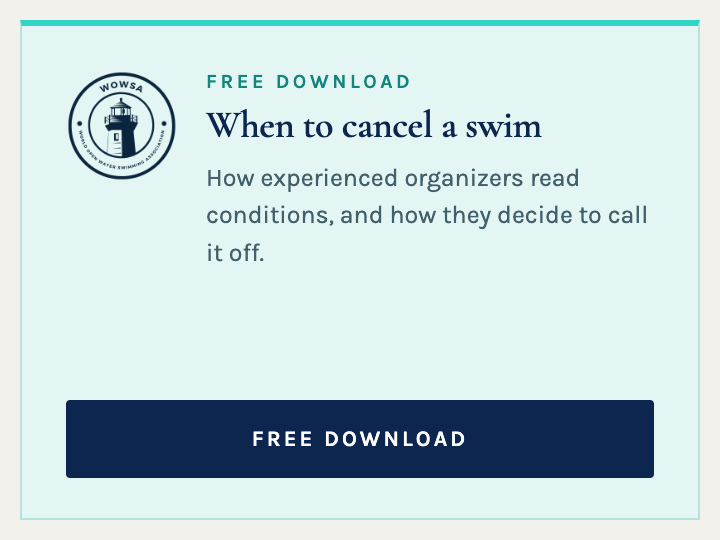
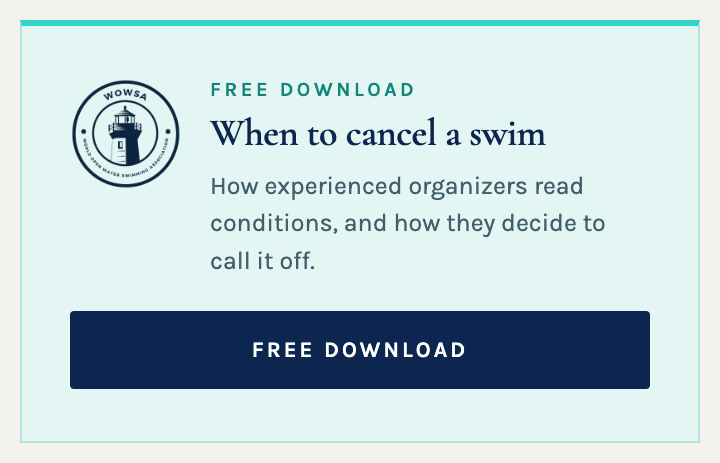
Fix oversized mid-card gaps in B, C, E; merge Slot E kicker to one line
B, C, and E all forced a fixed card height (space-between or an auto
margin pushing the button down), which left a large dead gap once the
340px width let the copy wrap to fewer lines. Replaced with natural
content flow and a fixed margin above the button. Slot E's two-line
"WOWSA Learn" / "Free course" kicker merged into one line with a dot
separator, and padding increased across all three for breathing room.

diff --git a/slot-e-sidebar-square-alt.html b/slot-e-sidebar-square-alt.html
@@ -8,26 +8,25 @@
 <style>
 .wowsa-promo-e{font-family:"Karla",-apple-system,BlinkMacSystemFont,"Segoe UI",Roboto,Helvetica,Arial,sans-serif;box-sizing:border-box}
 .wowsa-promo-e *{box-sizing:border-box}
-.wowsa-promo-e .ad{display:flex;flex-direction:column;justify-content:space-between;
-  min-height:250px;padding:20px;background:#0C2650;color:#FAF7F2;text-decoration:none;
+.wowsa-promo-e .ad{display:flex;flex-direction:column;
+  padding:28px;background:#0C2650;color:#FAF7F2;text-decoration:none;
   width:340px;max-width:100%}
-.wowsa-promo-e .kick{font-size:10px;letter-spacing:.18em;text-transform:uppercase;font-weight:600;color:#B5925C}
-.wowsa-promo-e .goldrule{height:1px;background:#B5925C;opacity:.55;margin:8px 0 12px;width:46px}
-.wowsa-promo-e .urg{display:inline-block;font-size:10px;font-weight:600;letter-spacing:.18em;
-  text-transform:uppercase;color:#B5925C;padding:0;border-bottom:1px solid #B5925C;padding-bottom:4px}
+.wowsa-promo-e .kickline{display:flex;align-items:center;gap:8px;font-size:10px;font-weight:600;
+  letter-spacing:.16em;text-transform:uppercase;color:#B5925C}
+.wowsa-promo-e .kickline .dot{opacity:.5}
+.wowsa-promo-e .goldrule{height:1px;background:#B5925C;opacity:.55;margin:12px 0 16px;width:46px}
 .wowsa-promo-e .h{font-family:"Cormorant Garamond",Georgia,"Times New Roman",serif;font-weight:600;
-  letter-spacing:-.01em;line-height:1.1;font-size:27px;margin:10px 0 8px;color:#FAF7F2}
-.wowsa-promo-e .s{font-size:12.5px;line-height:1.45;color:#c3ccdb}
+  letter-spacing:-.01em;line-height:1.15;font-size:27px;margin:0 0 12px;color:#FAF7F2}
+.wowsa-promo-e .s{font-size:12.5px;line-height:1.55;color:#c3ccdb}
 .wowsa-promo-e .btn{display:block;text-align:center;background:#FAF7F2;color:#0C2650;font-size:11px;
   font-weight:600;letter-spacing:.14em;text-transform:uppercase;padding:13px 22px;text-decoration:none;
-  border-radius:2px}
+  border-radius:2px;margin-top:22px}
 </style>
 <div class="wowsa-promo-e">
   <a class="ad" href="https://www.openwaterswimming.com/learn/courses/marathon-swimming" target="_blank" rel="noopener noreferrer">
     <div>
-      <div class="kick">WOWSA Learn</div>
+      <div class="kickline">WOWSA Learn <span class="dot">&middot;</span> Free course</div>
       <div class="goldrule"></div>
-      <span class="urg">Free course</span>
       <div class="h">Plan your first marathon swim</div>
       <div class="s">Eight modules on the shared language of the sport, from defining a swim to ratification.</div>
     </div>

diff --git a/slot-b-sidebar-banner.html b/slot-b-sidebar-banner.html
@@ -8,8 +8,8 @@
 <style>
 .wowsa-promo-b{font-family:"Karla",-apple-system,BlinkMacSystemFont,"Segoe UI",Roboto,Helvetica,Arial,sans-serif;box-sizing:border-box}
 .wowsa-promo-b *{box-sizing:border-box}
-.wowsa-promo-b .ad{display:flex;flex-direction:column;min-height:540px;height:auto;
-  padding:clamp(20px,4%,26px) clamp(18px,6%,24px);background:#0C2650;color:#FAF7F2;
+.wowsa-promo-b .ad{display:flex;flex-direction:column;
+  padding:clamp(26px,5%,32px) clamp(22px,6%,26px);background:#0C2650;color:#FAF7F2;
   text-decoration:none;width:300px;max-width:100%}
 .wowsa-promo-b .sealbox{display:flex;justify-content:center;padding:2px 0 6px}
 .wowsa-promo-b .mark{display:block;flex:none;width:clamp(104px,46%,150px);aspect-ratio:1;
@@ -26,13 +26,12 @@
 .wowsa-promo-b .goldrule{height:1px;background:#B5925C;opacity:.55;margin:18px 0 14px}
 .wowsa-promo-b .tick{display:flex;align-items:center;gap:8px;font-size:12px;font-weight:700;
   letter-spacing:.08em;text-transform:uppercase;color:#FAF7F2;margin-bottom:10px}
-.wowsa-promo-b .tick:last-of-type{margin-bottom:auto}
 .wowsa-promo-b .tick i{width:15px;height:15px;border-radius:50%;border:1.5px solid #B5925C;flex:none;position:relative}
 .wowsa-promo-b .tick i:after{content:"";position:absolute;left:4px;top:6px;width:5px;height:2.5px;
   border-left:1.5px solid #B5925C;border-bottom:1.5px solid #B5925C;transform:rotate(-45deg)}
 .wowsa-promo-b .btn{display:block;text-align:center;background:#B5925C;color:#fff;font-size:11px;
   font-weight:600;letter-spacing:.14em;text-transform:uppercase;padding:13px 22px;text-decoration:none;
-  border-radius:2px;margin-top:18px}
+  border-radius:2px;margin-top:26px}
 </style>
 <div class="wowsa-promo-b">
   <a class="ad" href="https://www.openwaterswimming.com/learn/reading-risk" target="_blank" rel="noopener noreferrer">

diff --git a/slot-c-sidebar-square.html b/slot-c-sidebar-square.html
@@ -6,8 +6,8 @@
 <style>
 .wowsa-promo-c{font-family:"Karla",-apple-system,BlinkMacSystemFont,"Segoe UI",Roboto,Helvetica,Arial,sans-serif;box-sizing:border-box}
 .wowsa-promo-c *{box-sizing:border-box}
-.wowsa-promo-c .ad{display:flex;flex-direction:column;justify-content:space-between;gap:18px;
-  min-height:250px;padding:22px 22px 20px;background:#E4F6F3;border:1px solid #B4E2DC;
+.wowsa-promo-c .ad{display:flex;flex-direction:column;gap:16px;
+  padding:26px 24px;background:#E4F6F3;border:1px solid #B4E2DC;
   border-top:3px solid #30D5C8;color:#0C2650;text-decoration:none;width:340px;max-width:100%}
 .wowsa-promo-c .row{display:flex;gap:14px;align-items:flex-start}
 .wowsa-promo-c .mark{display:block;flex:none;width:56px;aspect-ratio:1;
